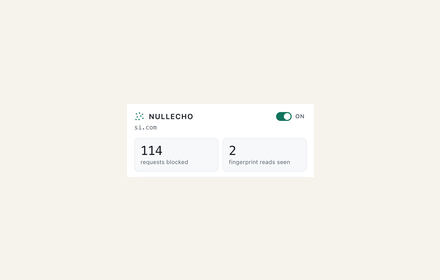
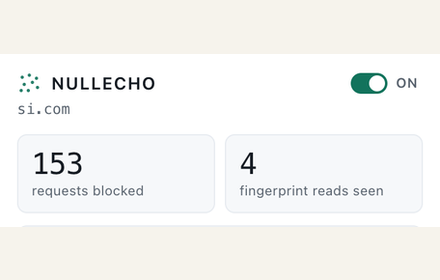
docs/store: screenshot 1 as two real side-by-side popup views, regenerate promo tile
Director review (2026-09-24), third pass. Already up to date with main (08b8914, the
"N of these companies were also present" wording fix) — no rebase needed, so this shot is
also the first to carry that fix.

The previous version reconstructed the WHOLE popup (header through the persona card,
~1300px of real document) by stitching zero-gap scroll slices into one seamless tall
image, then shrinking it to fit 800px — genuinely seamless, but the shrink made body text
illegible at store size.

Replaced with captureTwoPopupViews() + composeTwoPopupViewsSideBySide(): exactly two real,
UNSTITCHED, single-viewport screenshots of the live popup, shown side by side instead of
stacked:
  - LEFT: the popup as it opens (scrollTop 0) — header, stat tiles, first report cards.
  - RIGHT: the same load, scrolled via scrollIntoView({block:'end'}) on the persona panel
    so "What this site sees" sits fully in view at the bottom of the viewport.
Neither panel is itself a composite — each is one popupPage.screenshot() call, nothing
cropped out of it beyond what Chrome already drew for that viewport. Both are scaled UP
(not down) by the same factor to ~760px tall, the point being bigger text, not smaller.
The gap between them is real and intentional: two separate moments of the same popup, not
one continuous view (the plan's honest-gap allowance, since compositing-with-a-visible-gap
was fine all along when the gap was actually TRUE, unlike the earlier stitched version
[…]

diff --git a/docs/store/screenshots/README.md b/docs/store/screenshots/README.md
@@ -2,7 +2,7 @@
 
 One line per image: what it shows, the URL/state it was captured from, the capture date, and the command that reproduces it. See `docs/store/SCREENSHOT-PLAN.md` for the full plan and `harness/store-screenshots.mjs` for the capture script.
 
-- `01-popup-blocking-persona.png` — Toolbar popup — 114 requests blocked, 2 fingerprint reads seen, and the "What this site sees" device persona (system, graphics, CPU/RAM, display, now reading the REAL screen — see below), on a plain #f6f3ec background (no third-party page content in frame; the popup's own small label still names the real site measured, si.com). Appears as one continuous panel: reconstructed from 3 real, exact-viewport-height scroll captures of the popup (`window.scrollTo(0,0)`, `(0,600)`, …) stacked at zero gap, never an approximate scroll — each slice's last captured row is the document row directly before the next slice's first, so there is no seam and nothing between them but real popup content (including the real "What this site does to visitors" report panel, not hidden). Captured 2026-09-23 from: Real load of https://www.si.com/nba in Chrome for Testing with the unpacked extension, settled/scrolled for several seconds so trackers actually fired; popup opened via chrome.action.openPopup(). The host page's own screenshot was discarded — only the popup (3 real, unedited scroll-position captures of it, stitched with zero gap) was composited onto the plain background. Browser launched with `--screen-info={0,0 2880x1800 devicePixelRatio=2}` so every target — including the popup, which refuses a later per-target CDP metrics override — reports a real screen (verified before capture: screen.width=1440, screen.height=900, devicePixelRatio=2), which is why the Display row no longer reads the headless default of 800×600. Reproduce: `node harness/store-screenshots.mjs 1`
+- `01-popup-blocking-persona.png` — Two real, single-viewport captures of the toolbar popup side by side — LEFT: the popup as it opens (header, 153 requests blocked / 4 fingerprint reads seen, the first report cards). RIGHT: the same load, scrolled so the "What this site sees" device persona (system, graphics, CPU/RAM, display, now reading the REAL screen — see below) sits at the bottom of the view. On a plain #f6f3ec background, no third-party page content in frame; the popup's own small label still names the real site measured, si.com. Each panel is ONE unedited screenshot, scaled up (not down) to ~760px tall so store-size text stays readable; the gap between them is real, since they are two separate moments of the same popup, not one continuous view. Captured 2026-09-23 from: Real load of https://www.si.com/nba in Chrome for Testing with the unpacked extension, settled/scrolled for several seconds so trackers actually fired; popup opened via chrome.action.openPopup(). The host page's own screenshot was discarded — only the popup (two real, unedited single-viewport captures of it — scrollTop 0, then `scrollIntoView({block:'end'})` on the persona card) was composited onto the plain background. Browser launched with `--screen-info={0,0 2880x1800 devicePixelRatio=2}` so every target — including the popup, which refuses a later per-target CDP metrics override — reports a real screen (verified before capture: screen.width=1440, screen.height=900, devicePixelRatio=2), which is why the Display row no longer reads the headless default of 800×600. Reproduce: `node harness/store-screenshots.mjs 1`
 - `02-popup-price-disclosure.png` — Toolbar popup showing the price-disclosure panel: "This page carries New York’s algorithmic-pricing disclosure" and the published price (Price published on this page: 128.00 USD). Captured 2026-09-23 from: Local fixture page (harness/fixtures/pricing-disclosure.html, served over http:// — file:// is excluded by the content script's matches list) carrying the exact N.Y. Gen. Bus. Law § 349-a sentence and a schema.org Offer with a machine-readable price. No live retailer page reliably carries both without a login (research/NY-349A-COMPLIANCE-SWEEP.md); this stands in rather than misrepresenting a real business. Reproduce: `node harness/store-screenshots.mjs 2`
 - `03-options-blocking-gpc.png` — Options page — blocking-category toggles (ads, analytics, social, fingerprinting) and the Global Privacy Control section, light mode. Captured 2026-09-23 from: chrome-extension://<id>/options/options.html#blocking in the same running install, light mode forced via emulateMediaFeatures. Reproduce: `node harness/store-screenshots.mjs 3`
 - `04-options-limits.png` — Options page — "What Nullecho can’t do": the honesty/limits section (detectability, Firefox/Brave being stronger, IP/TLS out of reach, WASM fingerprinting, etc.), light mode. Captured 2026-09-23 from: chrome-extension://<id>/options/options.html#limits in the same running install, light mode forced via emulateMediaFeatures. Reproduce: `node harness/store-screenshots.mjs 4`
